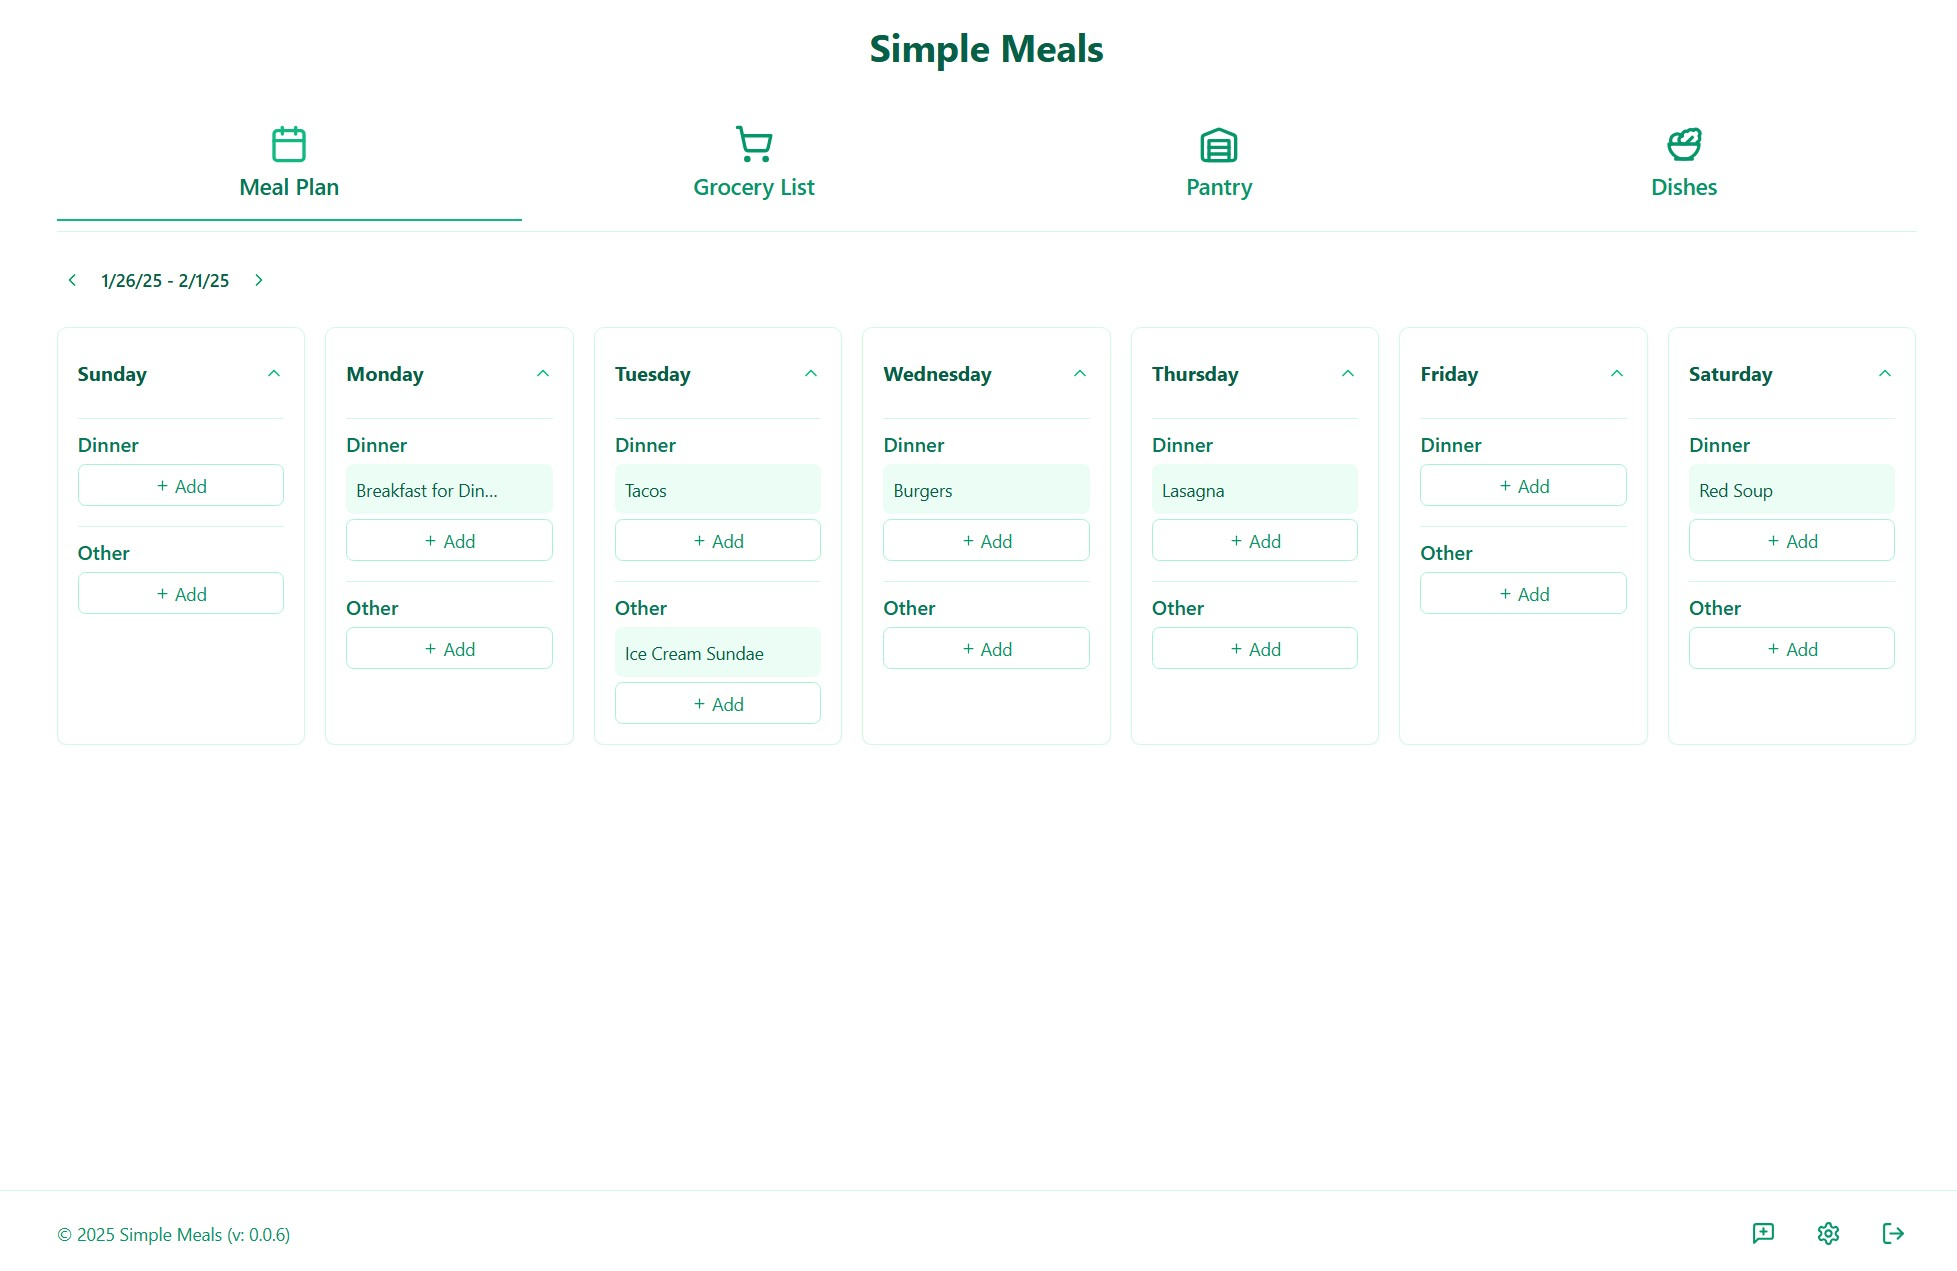
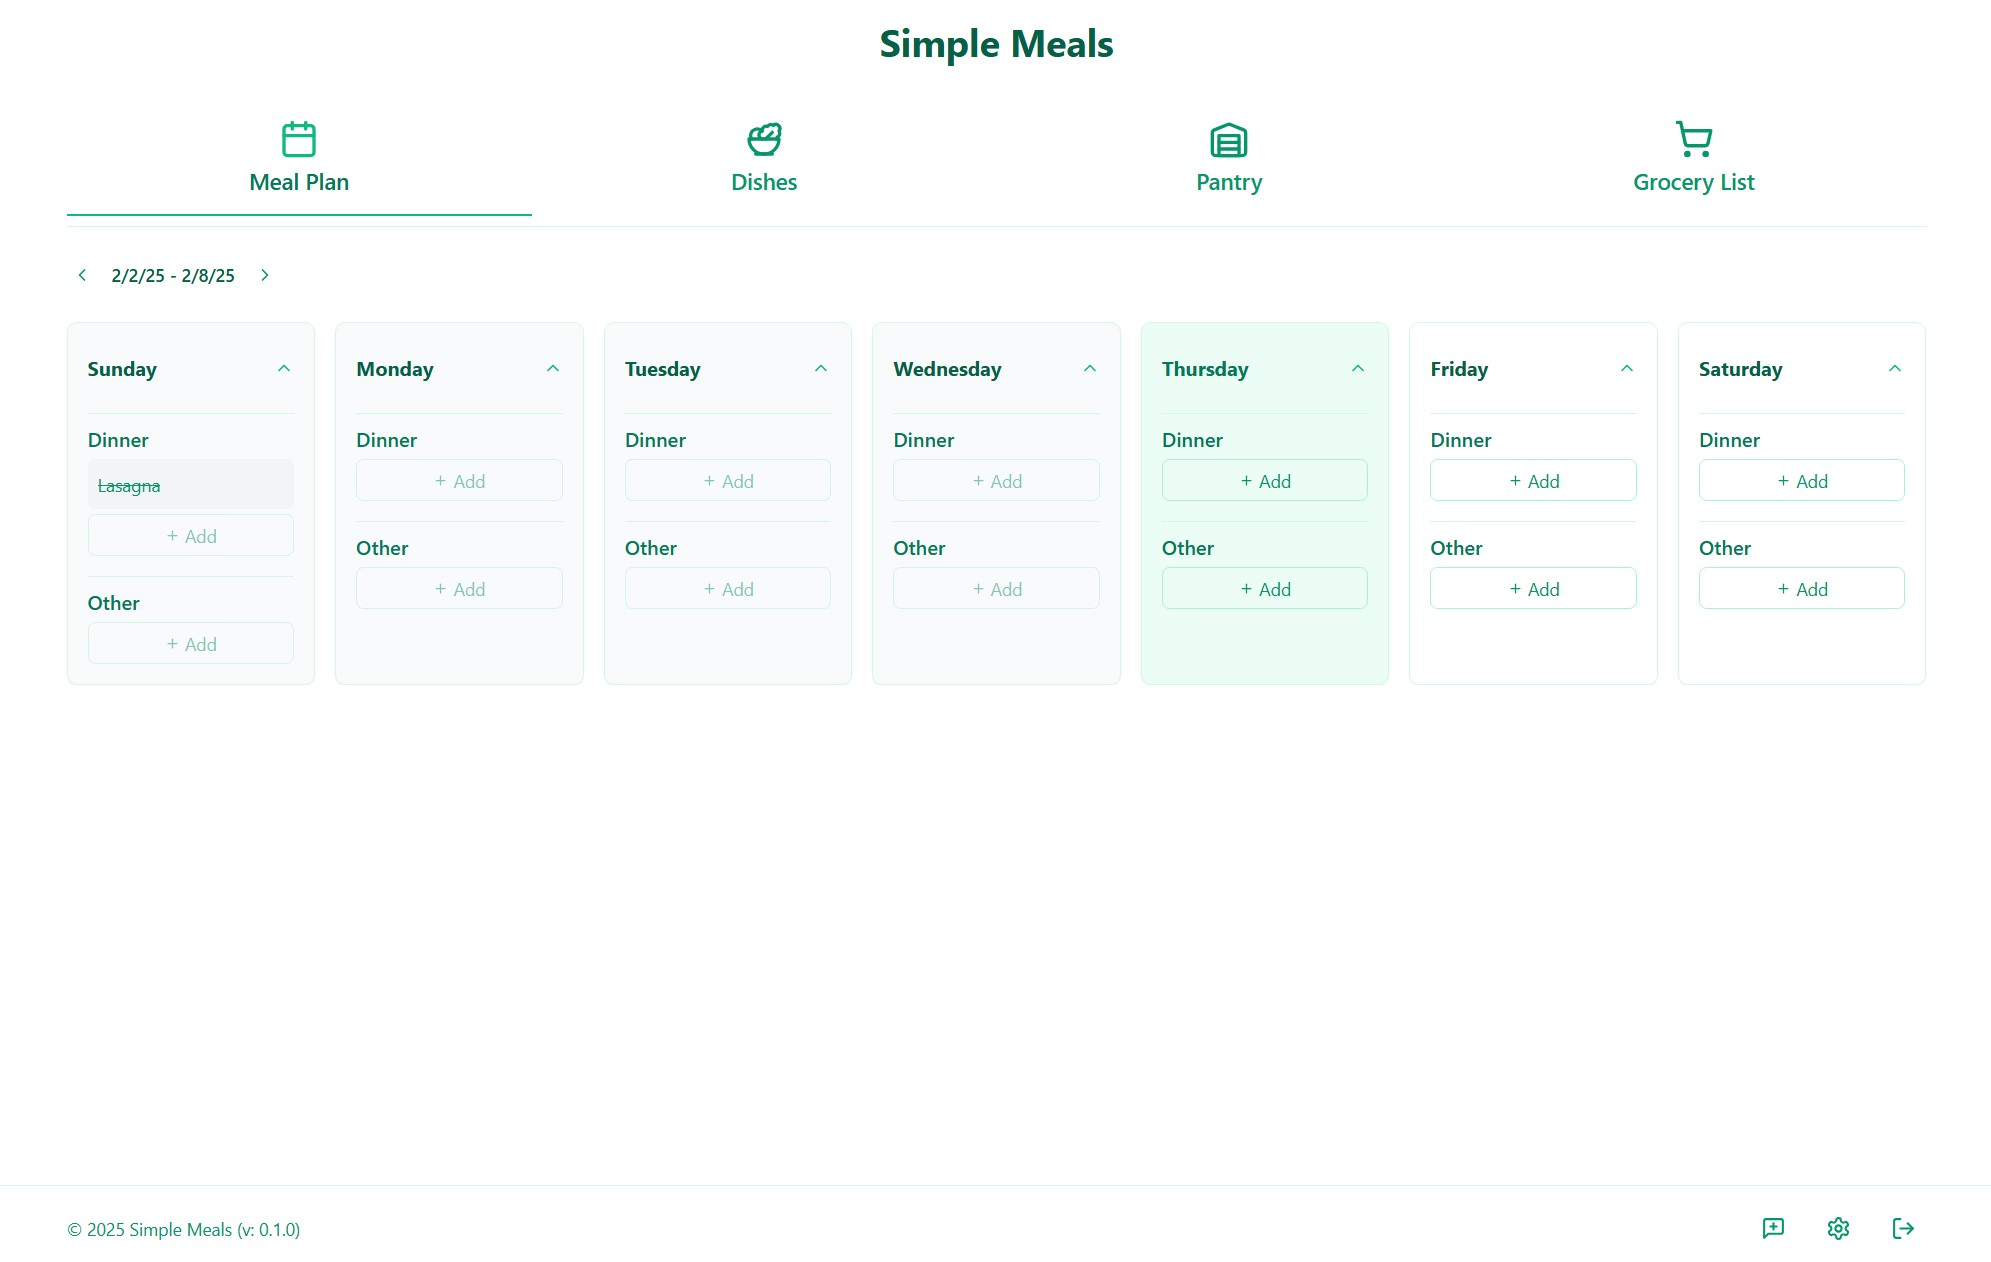
Upgraded welcome screen and shifted tabs

diff --git a/src/components/WelcomeScreen.jsx b/src/components/WelcomeScreen.jsx
@@ -1,5 +1,5 @@
 import React from 'react';
-import { Calendar, ShoppingCart, Warehouse, ChevronRight } from 'lucide-react';
+import { Calendar, ShoppingCart, Warehouse, ChevronRight, Salad } from 'lucide-react';
 
 const WelcomeScreen = ({ onAuthClick }) => {
   
@@ -12,11 +12,11 @@ const WelcomeScreen = ({ onAuthClick }) => {
       url: "/images/mealplanscreenshot.jpg"
     },
     {
-      icon: ShoppingCart,
-      title: "Smart Grocery Lists",
-      description: "Automatically generate shopping lists based on your meal plan. The app tracks what's in your pantry and only shows what you need to buy.",
+      icon: Salad,
+      title: "Make Your Own Dishes",
+      description: "Add your dishes the way you make them. Use the ingredients entered to generate shopping lists.",
       imagePosition: "left",
-      url: "/images/grocerylistscreenshot.jpg"
+      url: "/images/dishesscreenshot.jpg"
     },
     {
       icon: Warehouse,
@@ -24,7 +24,14 @@ const WelcomeScreen = ({ onAuthClick }) => {
       description: "Keep track of what you have at home. Never buy duplicates or run out of essentials again.",
       imagePosition: "right",
       url: "/images/pantryscreenshot.jpg"
-    }
+    },
+    {
+      icon: ShoppingCart,
+      title: "Smart Grocery Lists",
+      description: "Automatically generate shopping lists based on your meal plan. The app tracks what's in your pantry and only shows what you need to buy.",
+      imagePosition: "left",
+      url: "/images/grocerylistscreenshot.jpg"
+    },
   ];
 
   return (
@@ -113,7 +120,7 @@ const WelcomeScreen = ({ onAuthClick }) => {
             Ready to simplify your meal planning?
           </h2>
           <p className="text-xl text-emerald-600 dark:text-emerald-400">
-            Join thousands of users who have made their meal planning and grocery shopping easier.
+            Join us in making your meal planning and grocery shopping easier.
           </p>
           <button
             onClick={() => onAuthClick('signup')}

diff --git a/src/MealPlanner.jsx b/src/MealPlanner.jsx
@@ -77,10 +77,10 @@ const MealPlanner = () => {
                 onClick={() => setActiveTab('meal-plan')}
               />
               <TabButton 
-                icon={ShoppingCart} 
-                label='Grocery List' 
-                isActive={activeTab === 'grocery'} 
-                onClick={() => setActiveTab('grocery')}
+                icon={Salad} 
+                label='Dishes' 
+                isActive={activeTab === 'dishes'} 
+                onClick={() => setActiveTab('dishes')}
               />
               <TabButton 
                 icon={Warehouse} 
@@ -89,10 +89,10 @@ const MealPlanner = () => {
                 onClick={() => setActiveTab('pantry')}
               />
               <TabButton 
-                icon={Salad} 
-                label='Dishes' 
-                isActive={activeTab === 'dishes'} 
-                onClick={() => setActiveTab('dishes')}
+                icon={ShoppingCart} 
+                label='Grocery List' 
+                isActive={activeTab === 'grocery'} 
+                onClick={() => setActiveTab('grocery')}
               />
             </div>
 
